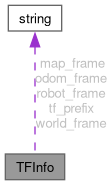
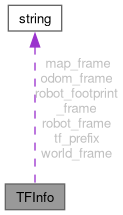
deploy: 782d0b30da52d99adb8120773ca8550337a495a8

Changed region(s): [[0.0536, 0.0, 0.9643, 0.7568], [0.0268, 0.7297, 0.5893, 1.0]]

diff --git a/SystemNode_8hpp_source.html b/SystemNode_8hpp_source.html
@@ -216,18 +216,18 @@ $(function(){ initResizable(false); });
 <div class="ttc" id="aclasseasynav_1_1NavState_html"><div class="ttname"><a href="classeasynav_1_1NavState.html">easynav::NavState</a></div><div class="ttdoc">A generic, type-safe, thread-safe blackboard to hold runtime state.</div><div class="ttdef"><b>Definition</b> NavState.hpp:87</div></div>
 <div class="ttc" id="aclasseasynav_1_1PlannerNode_html"><div class="ttname"><a href="classeasynav_1_1PlannerNode.html">easynav::PlannerNode</a></div><div class="ttdoc">ROS 2 lifecycle node that manages path planning in Easy Navigation.</div><div class="ttdef"><b>Definition</b> PlannerNode.hpp:43</div></div>
 <div class="ttc" id="aclasseasynav_1_1SensorsNode_html"><div class="ttname"><a href="classeasynav_1_1SensorsNode.html">easynav::SensorsNode</a></div><div class="ttdoc">ROS 2 lifecycle node that manages sensor fusion in Easy Navigation.</div><div class="ttdef"><b>Definition</b> SensorsNode.hpp:47</div></div>
-<div class="ttc" id="aclasseasynav_1_1SystemNode_html_a26f6915d7f6c74f8cf2e766e352ef4a1"><div class="ttname"><a href="classeasynav_1_1SystemNode.html#a26f6915d7f6c74f8cf2e766e352ef4a1">easynav::SystemNode::on_activate</a></div><div class="ttdeci">CallbackReturnT on_activate(const rclcpp_lifecycle::State &amp;state)</div><div class="ttdoc">Activate the node.</div><div class="ttdef"><b>Definition</b> SystemNode.cpp:155</div></div>
-<div class="ttc" id="aclasseasynav_1_1SystemNode_html_a316621c227e6363944e9d141fc227697"><div class="ttname"><a href="classeasynav_1_1SystemNode.html#a316621c227e6363944e9d141fc227697">easynav::SystemNode::on_configure</a></div><div class="ttdeci">CallbackReturnT on_configure(const rclcpp_lifecycle::State &amp;state)</div><div class="ttdoc">Configure the node.</div><div class="ttdef"><b>Definition</b> SystemNode.cpp:106</div></div>
-<div class="ttc" id="aclasseasynav_1_1SystemNode_html_a38b74771f6ab23805f990786e4d6f806"><div class="ttname"><a href="classeasynav_1_1SystemNode.html#a38b74771f6ab23805f990786e4d6f806">easynav::SystemNode::on_shutdown</a></div><div class="ttdeci">CallbackReturnT on_shutdown(const rclcpp_lifecycle::State &amp;state)</div><div class="ttdoc">Shutdown the node.</div><div class="ttdef"><b>Definition</b> SystemNode.cpp:204</div></div>
-<div class="ttc" id="aclasseasynav_1_1SystemNode_html_a514922ffaeaefa826c2d33243b19891f"><div class="ttname"><a href="classeasynav_1_1SystemNode.html#a514922ffaeaefa826c2d33243b19891f">easynav::SystemNode::get_system_nodes</a></div><div class="ttdeci">std::map&lt; std::string, SystemNodeInfo &gt; get_system_nodes()</div><div class="ttdoc">Get all system nodes managed by this coordinator.</div><div class="ttdef"><b>Definition</b> SystemNode.cpp:278</div></div>
-<div class="ttc" id="aclasseasynav_1_1SystemNode_html_a51a30cb3859b0fc27bd0aafaa778acb2"><div class="ttname"><a href="classeasynav_1_1SystemNode.html#a51a30cb3859b0fc27bd0aafaa778acb2">easynav::SystemNode::on_cleanup</a></div><div class="ttdeci">CallbackReturnT on_cleanup(const rclcpp_lifecycle::State &amp;state)</div><div class="ttdoc">Cleanup the node.</div><div class="ttdef"><b>Definition</b> SystemNode.cpp:197</div></div>
-<div class="ttc" id="aclasseasynav_1_1SystemNode_html_a8366fef9515c0b0cd47949fbfc018641"><div class="ttname"><a href="classeasynav_1_1SystemNode.html#a8366fef9515c0b0cd47949fbfc018641">easynav::SystemNode::get_real_time_cbg</a></div><div class="ttdeci">rclcpp::CallbackGroup::SharedPtr get_real_time_cbg()</div><div class="ttdoc">Get the real-time callback group.</div><div class="ttdef"><b>Definition</b> SystemNode.cpp:218</div></div>
-<div class="ttc" id="aclasseasynav_1_1SystemNode_html_a9b0782b915f4798a61ae8b9e56ebd5fb"><div class="ttname"><a href="classeasynav_1_1SystemNode.html#a9b0782b915f4798a61ae8b9e56ebd5fb">easynav::SystemNode::on_error</a></div><div class="ttdeci">CallbackReturnT on_error(const rclcpp_lifecycle::State &amp;state)</div><div class="ttdoc">Handle lifecycle transition error.</div><div class="ttdef"><b>Definition</b> SystemNode.cpp:211</div></div>
+<div class="ttc" id="aclasseasynav_1_1SystemNode_html_a26f6915d7f6c74f8cf2e766e352ef4a1"><div class="ttname"><a href="classeasynav_1_1SystemNode.html#a26f6915d7f6c74f8cf2e766e352ef4a1">easynav::SystemNode::on_activate</a></div><div class="ttdeci">CallbackReturnT on_activate(const rclcpp_lifecycle::State &amp;state)</div><div class="ttdoc">Activate the node.</div><div class="ttdef"><b>Definition</b> SystemNode.cpp:157</div></div>
+<div class="ttc" id="aclasseasynav_1_1SystemNode_html_a316621c227e6363944e9d141fc227697"><div class="ttname"><a href="classeasynav_1_1SystemNode.html#a316621c227e6363944e9d141fc227697">easynav::SystemNode::on_configure</a></div><div class="ttdeci">CallbackReturnT on_configure(const rclcpp_lifecycle::State &amp;state)</div><div class="ttdoc">Configure the node.</div><div class="ttdef"><b>Definition</b> SystemNode.cpp:107</div></div>
+<div class="ttc" id="aclasseasynav_1_1SystemNode_html_a38b74771f6ab23805f990786e4d6f806"><div class="ttname"><a href="classeasynav_1_1SystemNode.html#a38b74771f6ab23805f990786e4d6f806">easynav::SystemNode::on_shutdown</a></div><div class="ttdeci">CallbackReturnT on_shutdown(const rclcpp_lifecycle::State &amp;state)</div><div class="ttdoc">Shutdown the node.</div><div class="ttdef"><b>Definition</b> SystemNode.cpp:206</div></div>
+<div class="ttc" id="aclasseasynav_1_1SystemNode_html_a514922ffaeaefa826c2d33243b19891f"><div class="ttname"><a href="classeasynav_1_1SystemNode.html#a514922ffaeaefa826c2d33243b19891f">easynav::SystemNode::get_system_nodes</a></div><div class="ttdeci">std::map&lt; std::string, SystemNodeInfo &gt; get_system_nodes()</div><div class="ttdoc">Get all system nodes managed by this coordinator.</div><div class="ttdef"><b>Definition</b> SystemNode.cpp:280</div></div>
+<div class="ttc" id="aclasseasynav_1_1SystemNode_html_a51a30cb3859b0fc27bd0aafaa778acb2"><div class="ttname"><a href="classeasynav_1_1SystemNode.html#a51a30cb3859b0fc27bd0aafaa778acb2">easynav::SystemNode::on_cleanup</a></div><div class="ttdeci">CallbackReturnT on_cleanup(const rclcpp_lifecycle::State &amp;state)</div><div class="ttdoc">Cleanup the node.</div><div class="ttdef"><b>Definition</b> SystemNode.cpp:199</div></div>
+<div class="ttc" id="aclasseasynav_1_1SystemNode_html_a8366fef9515c0b0cd47949fbfc018641"><div class="ttname"><a href="classeasynav_1_1SystemNode.html#a8366fef9515c0b0cd47949fbfc018641">easynav::SystemNode::get_real_time_cbg</a></div><div class="ttdeci">rclcpp::CallbackGroup::SharedPtr get_real_time_cbg()</div><div class="ttdoc">Get the real-time callback group.</div><div class="ttdef"><b>Definition</b> SystemNode.cpp:220</div></div>
+<div class="ttc" id="aclasseasynav_1_1SystemNode_html_a9b0782b915f4798a61ae8b9e56ebd5fb"><div class="ttname"><a href="classeasynav_1_1SystemNode.html#a9b0782b915f4798a61ae8b9e56ebd5fb">easynav::SystemNode::on_error</a></div><div class="ttdeci">CallbackReturnT on_error(const rclcpp_lifecycle::State &amp;state)</div><div class="ttdoc">Handle lifecycle transition error.</div><div class="ttdef"><b>Definition</b> SystemNode.cpp:213</div></div>
 <div class="ttc" id="aclasseasynav_1_1SystemNode_html_abff1721399712e8fc6091a43b83d95aa"><div class="ttname"><a href="classeasynav_1_1SystemNode.html#abff1721399712e8fc6091a43b83d95aa">easynav::SystemNode::SystemNode</a></div><div class="ttdeci">SystemNode(const rclcpp::NodeOptions &amp;options=rclcpp::NodeOptions())</div><div class="ttdoc">Constructor.</div><div class="ttdef"><b>Definition</b> SystemNode.cpp:42</div></div>
-<div class="ttc" id="aclasseasynav_1_1SystemNode_html_acca79767d43dedc09e182e9125a847f3"><div class="ttname"><a href="classeasynav_1_1SystemNode.html#acca79767d43dedc09e182e9125a847f3">easynav::SystemNode::system_cycle</a></div><div class="ttdeci">void system_cycle()</div><div class="ttdoc">Non-real-time system cycle.</div><div class="ttdef"><b>Definition</b> SystemNode.cpp:254</div></div>
-<div class="ttc" id="aclasseasynav_1_1SystemNode_html_acd948c2ed9cfe6512e5b610caaa25961"><div class="ttname"><a href="classeasynav_1_1SystemNode.html#acd948c2ed9cfe6512e5b610caaa25961">easynav::SystemNode::system_cycle_rt</a></div><div class="ttdeci">void system_cycle_rt()</div><div class="ttdoc">Real-time system cycle.</div><div class="ttdef"><b>Definition</b> SystemNode.cpp:224</div></div>
+<div class="ttc" id="aclasseasynav_1_1SystemNode_html_acca79767d43dedc09e182e9125a847f3"><div class="ttname"><a href="classeasynav_1_1SystemNode.html#acca79767d43dedc09e182e9125a847f3">easynav::SystemNode::system_cycle</a></div><div class="ttdeci">void system_cycle()</div><div class="ttdoc">Non-real-time system cycle.</div><div class="ttdef"><b>Definition</b> SystemNode.cpp:256</div></div>
+<div class="ttc" id="aclasseasynav_1_1SystemNode_html_acd948c2ed9cfe6512e5b610caaa25961"><div class="ttname"><a href="classeasynav_1_1SystemNode.html#acd948c2ed9cfe6512e5b610caaa25961">easynav::SystemNode::system_cycle_rt</a></div><div class="ttdeci">void system_cycle_rt()</div><div class="ttdoc">Real-time system cycle.</div><div class="ttdef"><b>Definition</b> SystemNode.cpp:226</div></div>
 <div class="ttc" id="aclasseasynav_1_1SystemNode_html_ad09d90f1fe35c9e2f2fd7fc1902312f4"><div class="ttname"><a href="classeasynav_1_1SystemNode.html#ad09d90f1fe35c9e2f2fd7fc1902312f4">easynav::SystemNode::CallbackReturnT</a></div><div class="ttdeci">rclcpp_lifecycle::node_interfaces::LifecycleNodeInterface::CallbackReturn CallbackReturnT</div><div class="ttdef"><b>Definition</b> SystemNode.hpp:66</div></div>
-<div class="ttc" id="aclasseasynav_1_1SystemNode_html_afc8a8fa2ed2c7efe041cde46ce4c3c9b"><div class="ttname"><a href="classeasynav_1_1SystemNode.html#afc8a8fa2ed2c7efe041cde46ce4c3c9b">easynav::SystemNode::on_deactivate</a></div><div class="ttdeci">CallbackReturnT on_deactivate(const rclcpp_lifecycle::State &amp;state)</div><div class="ttdoc">Deactivate the node.</div><div class="ttdef"><b>Definition</b> SystemNode.cpp:176</div></div>
+<div class="ttc" id="aclasseasynav_1_1SystemNode_html_afc8a8fa2ed2c7efe041cde46ce4c3c9b"><div class="ttname"><a href="classeasynav_1_1SystemNode.html#afc8a8fa2ed2c7efe041cde46ce4c3c9b">easynav::SystemNode::on_deactivate</a></div><div class="ttdeci">CallbackReturnT on_deactivate(const rclcpp_lifecycle::State &amp;state)</div><div class="ttdoc">Deactivate the node.</div><div class="ttdef"><b>Definition</b> SystemNode.cpp:178</div></div>
 <div class="ttc" id="anamespaceeasynav_html"><div class="ttname"><a href="namespaceeasynav.html">easynav</a></div><div class="ttdef"><b>Definition</b> CircularBuffer.hpp:28</div></div>
 <div class="ttc" id="anamespacestd_html"><div class="ttname"><a href="namespacestd.html">std</a></div><div class="ttdef"><b>Definition</b> PointPerception.hpp:54</div></div>
 <div class="ttc" id="astructeasynav_1_1SystemNodeInfo_html"><div class="ttname"><a href="structeasynav_1_1SystemNodeInfo.html">easynav::SystemNodeInfo</a></div><div class="ttdoc">Structure holding runtime information for a subnode.</div><div class="ttdef"><b>Definition</b> SystemNode.hpp:50</div></div>

diff --git a/SensorsNode_8hpp_source.html b/SensorsNode_8hpp_source.html
@@ -174,31 +174,29 @@ $(function(){ initResizable(false); });
 <div class="line"><a id="l00144" name="l00144"></a><span class="lineno">  144</span></div>
 <div class="line"><a id="l00146" name="l00146"></a><span class="lineno">  146</span>  <span class="keywordtype">double</span> forget_time_;</div>
 <div class="line"><a id="l00147" name="l00147"></a><span class="lineno">  147</span></div>
-<div class="line"><a id="l00149" name="l00149"></a><span class="lineno">  149</span>  <a class="code hl_namespace" href="namespacestd.html">std</a>::<span class="keywordtype">string</span> robot_frame_ {<span class="stringliteral">&quot;base_link&quot;</span>};</div>
+<div class="line"><a id="l00149" name="l00149"></a><span class="lineno">  149</span>  <a class="code hl_namespace" href="namespacestd.html">std</a>::<span class="keywordtype">string</span> tf_prefix_;</div>
 <div class="line"><a id="l00150" name="l00150"></a><span class="lineno">  150</span></div>
-<div class="line"><a id="l00152" name="l00152"></a><span class="lineno">  152</span>  std::string tf_prefix_;</div>
-<div class="line"><a id="l00153" name="l00153"></a><span class="lineno">  153</span></div>
-<div class="line"><a id="l00155" name="l00155"></a><span class="lineno">  155</span>  std::shared_ptr&lt;NavState&gt; nav_state_;</div>
-<div class="line"><a id="l00156" name="l00156"></a><span class="lineno">  156</span> </div>
-<div class="line"><a id="l00157" name="l00157"></a><span class="lineno">  157</span>  std::map&lt;std::string, std::vector&lt;PerceptionPtr&gt;&gt; perceptions_;</div>
-<div class="line"><a id="l00158" name="l00158"></a><span class="lineno">  158</span>  std::map&lt;std::string, std::shared_ptr&lt;PerceptionHandler&gt;&gt; handlers_;</div>
+<div class="line"><a id="l00152" name="l00152"></a><span class="lineno">  152</span>  <a class="code hl_namespace" href="namespacestd.html">std</a>::shared_ptr&lt;<a class="code hl_class" href="classeasynav_1_1NavState.html">NavState</a>&gt; nav_state_;</div>
+<div class="line"><a id="l00153" name="l00153"></a><span class="lineno">  153</span> </div>
+<div class="line"><a id="l00154" name="l00154"></a><span class="lineno">  154</span>  <a class="code hl_namespace" href="namespacestd.html">std</a>::map&lt;<a class="code hl_namespace" href="namespacestd.html">std</a>::<span class="keywordtype">string</span>, <a class="code hl_namespace" href="namespacestd.html">std</a>::vector&lt;<a class="code hl_struct" href="structeasynav_1_1PerceptionPtr.html">PerceptionPtr</a>&gt;&gt; perceptions_;</div>
+<div class="line"><a id="l00155" name="l00155"></a><span class="lineno">  155</span>  <a class="code hl_namespace" href="namespacestd.html">std</a>::map&lt;<a class="code hl_namespace" href="namespacestd.html">std</a>::<span class="keywordtype">string</span>, <a class="code hl_namespace" href="namespacestd.html">std</a>::shared_ptr&lt;<a class="code hl_class" href="classeasynav_1_1PerceptionHandler.html">PerceptionHandler</a>&gt;&gt; handlers_;</div>
+<div class="line"><a id="l00156" name="l00156"></a><span class="lineno">  156</span></div>
+<div class="line"><a id="l00158" name="l00158"></a><span class="lineno">  158</span>  <a class="code hl_namespace" href="namespacestd.html">std</a>::unordered_map&lt;<a class="code hl_namespace" href="namespacestd.html">std</a>::<span class="keywordtype">string</span>, <a class="code hl_typedef" href="classeasynav_1_1SensorsNode.html#ac9926ee4f197296b143e1588428defba">SensorsHandlerFn</a>&gt; group_to_handler_;</div>
 <div class="line"><a id="l00159" name="l00159"></a><span class="lineno">  159</span></div>
-<div class="line"><a id="l00161" name="l00161"></a><span class="lineno">  161</span>  std::unordered_map&lt;std::string, SensorsHandlerFn&gt; group_to_handler_;</div>
-<div class="line"><a id="l00162" name="l00162"></a><span class="lineno">  162</span></div>
-<div class="line"><a id="l00169" name="l00169"></a><span class="lineno">  169</span>  <span class="keywordtype">bool</span> set_by_group(</div>
-<div class="line"><a id="l00170" name="l00170"></a><span class="lineno">  170</span>    <span class="keyword">const</span> std::string &amp; group,</div>
-<div class="line"><a id="l00171" name="l00171"></a><span class="lineno">  171</span>    <span class="keyword">const</span> std::vector&lt;PerceptionPtr&gt; &amp; perceptions,</div>
-<div class="line"><a id="l00172" name="l00172"></a><span class="lineno">  172</span>    <a class="code hl_class" href="classeasynav_1_1NavState.html">::easynav::NavState</a> &amp; ns</div>
-<div class="line"><a id="l00173" name="l00173"></a><span class="lineno">  173</span>  );</div>
-<div class="line"><a id="l00174" name="l00174"></a><span class="lineno">  174</span></div>
-<div class="line"><a id="l00180" name="l00180"></a><span class="lineno">  180</span>  <span class="keyword">template</span>&lt;std::<span class="keywordtype">size_t</span> I = 0&gt;</div>
-<div class="line"><a id="l00181" name="l00181"></a><span class="lineno">  181</span>  <span class="keywordtype">void</span> populate_group_to_handler_map();</div>
-<div class="line"><a id="l00182" name="l00182"></a><span class="lineno">  182</span>};</div>
+<div class="line"><a id="l00166" name="l00166"></a><span class="lineno">  166</span>  <span class="keywordtype">bool</span> set_by_group(</div>
+<div class="line"><a id="l00167" name="l00167"></a><span class="lineno">  167</span>    const <a class="code hl_namespace" href="namespacestd.html">std</a>::<span class="keywordtype">string</span> &amp; group,</div>
+<div class="line"><a id="l00168" name="l00168"></a><span class="lineno">  168</span>    const <a class="code hl_namespace" href="namespacestd.html">std</a>::vector&lt;<a class="code hl_struct" href="structeasynav_1_1PerceptionPtr.html">PerceptionPtr</a>&gt; &amp; perceptions,</div>
+<div class="line"><a id="l00169" name="l00169"></a><span class="lineno">  169</span>    ::<a class="code hl_namespace" href="namespaceeasynav.html">easynav</a>::<a class="code hl_class" href="classeasynav_1_1NavState.html">NavState</a> &amp; ns</div>
+<div class="line"><a id="l00170" name="l00170"></a><span class="lineno">  170</span>  );</div>
+<div class="line"><a id="l00171" name="l00171"></a><span class="lineno">  171</span></div>
+<div class="line"><a id="l00177" name="l00177"></a><span class="lineno">  177</span>  template&lt;<a class="code hl_namespace" href="namespacestd.html">std</a>::<span class="keywordtype">size_t</span> I = 0&gt;</div>
+<div class="line"><a id="l00178" name="l00178"></a><span class="lineno">  178</span>  <span class="keywordtype">void</span> populate_group_to_handler_map();</div>
+<div class="line"><a id="l00179" name="l00179"></a><span class="lineno">  179</span>};</div>
 </div>
-<div class="line"><a id="l00183" name="l00183"></a><span class="lineno">  183</span> </div>
-<div class="line"><a id="l00184" name="l00184"></a><span class="lineno">  184</span>}  <span class="comment">// namespace easynav</span></div>
-<div class="line"><a id="l00185" name="l00185"></a><span class="lineno">  185</span> </div>
-<div class="line"><a id="l00186" name="l00186"></a><span class="lineno">  186</span><span class="preprocessor">#endif  </span><span class="comment">// EASYNAV_SENSORS__SENSORNODE_HPP_</span></div>
+<div class="line"><a id="l00180" name="l00180"></a><span class="lineno">  180</span> </div>
+<div class="line"><a id="l00181" name="l00181"></a><span class="lineno">  181</span>}  <span class="comment">// namespace easynav</span></div>
+<div class="line"><a id="l00182" name="l00182"></a><span class="lineno">  182</span> </div>
+<div class="line"><a id="l00183" name="l00183"></a><span class="lineno">  183</span><span class="preprocessor">#endif  </span><span class="comment">// EASYNAV_SENSORS__SENSORNODE_HPP_</span></div>
 <div class="ttc" id="aNavState_8hpp_html"><div class="ttname"><a href="NavState_8hpp.html">NavState.hpp</a></div><div class="ttdoc">A blackboard-like structure to hold the current state of the navigation system.</div></div>
 <div class="ttc" id="aPerceptions_8hpp_html"><div class="ttname"><a href="Perceptions_8hpp.html">Perceptions.hpp</a></div><div class="ttdoc">Defines data structures and utilities for representing and processing sensor perceptions.</div></div>
 <div class="ttc" id="aclasseasynav_1_1NavState_html"><div class="ttname"><a href="classeasynav_1_1NavState.html">easynav::NavState</a></div><div class="ttdoc">A generic, type-safe, thread-safe blackboard to hold runtime state.</div><div class="ttdef"><b>Definition</b> NavState.hpp:87</div></div>

diff --git a/TFInfo_8hpp_source.html b/TFInfo_8hpp_source.html
@@ -132,17 +132,20 @@ $(function(){ initResizable(false); });
 <div class="line"><a id="l00042" name="l00042"></a><span class="lineno">   42</span></div>
 <div class="line"><a id="l00044" name="l00044"></a><span class="lineno"><a class="line" href="structeasynav_1_1TFInfo.html#a353f8a8b1f5f926d60a93b70c87e173f">   44</a></span>  std::string <a class="code hl_variable" href="structeasynav_1_1TFInfo.html#a353f8a8b1f5f926d60a93b70c87e173f">robot_frame</a> {<span class="stringliteral">&quot;base_link&quot;</span>};</div>
 <div class="line"><a id="l00045" name="l00045"></a><span class="lineno">   45</span></div>
-<div class="line"><a id="l00047" name="l00047"></a><span class="lineno"><a class="line" href="structeasynav_1_1TFInfo.html#a6503fcf2db179ad3a03e3ba9c51ba6d6">   47</a></span>  std::string <a class="code hl_variable" href="structeasynav_1_1TFInfo.html#a6503fcf2db179ad3a03e3ba9c51ba6d6">world_frame</a>{<span class="stringliteral">&quot;earth&quot;</span>};</div>
-<div class="line"><a id="l00048" name="l00048"></a><span class="lineno">   48</span>};</div>
+<div class="line"><a id="l00047" name="l00047"></a><span class="lineno"><a class="line" href="structeasynav_1_1TFInfo.html#a8dbd52299e41d67bf96df83528cb1eac">   47</a></span>  std::string <a class="code hl_variable" href="structeasynav_1_1TFInfo.html#a8dbd52299e41d67bf96df83528cb1eac">robot_footprint_frame</a> {<span class="stringliteral">&quot;base_footprint&quot;</span>};</div>
+<div class="line"><a id="l00048" name="l00048"></a><span class="lineno">   48</span></div>
+<div class="line"><a id="l00050" name="l00050"></a><span class="lineno"><a class="line" href="structeasynav_1_1TFInfo.html#a6503fcf2db179ad3a03e3ba9c51ba6d6">   50</a></span>  std::string <a class="code hl_variable" href="structeasynav_1_1TFInfo.html#a6503fcf2db179ad3a03e3ba9c51ba6d6">world_frame</a>{<span class="stringliteral">&quot;earth&quot;</span>};</div>
+<div class="line"><a id="l00051" name="l00051"></a><span class="lineno">   51</span>};</div>
 </div>
-<div class="line"><a id="l00049" name="l00049"></a><span class="lineno">   49</span> </div>
-<div class="line"><a id="l00050" name="l00050"></a><span class="lineno">   50</span>}  <span class="comment">// namespace easynav</span></div>
-<div class="line"><a id="l00051" name="l00051"></a><span class="lineno">   51</span> </div>
-<div class="line"><a id="l00052" name="l00052"></a><span class="lineno">   52</span><span class="preprocessor">#endif  </span><span class="comment">// EASYNAV_COMMON__TYPES__TFINFO_HPP_</span></div>
+<div class="line"><a id="l00052" name="l00052"></a><span class="lineno">   52</span> </div>
+<div class="line"><a id="l00053" name="l00053"></a><span class="lineno">   53</span>}  <span class="comment">// namespace easynav</span></div>
+<div class="line"><a id="l00054" name="l00054"></a><span class="lineno">   54</span> </div>
+<div class="line"><a id="l00055" name="l00055"></a><span class="lineno">   55</span><span class="preprocessor">#endif  </span><span class="comment">// EASYNAV_COMMON__TYPES__TFINFO_HPP_</span></div>
 <div class="ttc" id="anamespaceeasynav_html"><div class="ttname"><a href="namespaceeasynav.html">easynav</a></div><div class="ttdef"><b>Definition</b> CircularBuffer.hpp:28</div></div>
 <div class="ttc" id="astructeasynav_1_1TFInfo_html"><div class="ttname"><a href="structeasynav_1_1TFInfo.html">easynav::TFInfo</a></div><div class="ttdoc">Aggregated TF configuration used across EasyNav.</div><div class="ttdef"><b>Definition</b> TFInfo.hpp:30</div></div>
-<div class="ttc" id="astructeasynav_1_1TFInfo_html_a353f8a8b1f5f926d60a93b70c87e173f"><div class="ttname"><a href="structeasynav_1_1TFInfo.html#a353f8a8b1f5f926d60a93b70c87e173f">easynav::TFInfo::robot_frame</a></div><div class="ttdeci">std::string robot_frame</div><div class="ttdoc">Robot base frame (base_link/base_footprint equivalent).</div><div class="ttdef"><b>Definition</b> TFInfo.hpp:44</div></div>
-<div class="ttc" id="astructeasynav_1_1TFInfo_html_a6503fcf2db179ad3a03e3ba9c51ba6d6"><div class="ttname"><a href="structeasynav_1_1TFInfo.html#a6503fcf2db179ad3a03e3ba9c51ba6d6">easynav::TFInfo::world_frame</a></div><div class="ttdeci">std::string world_frame</div><div class="ttdoc">World frame used by global estimators (e.g. earth-fixed frame).</div><div class="ttdef"><b>Definition</b> TFInfo.hpp:47</div></div>
+<div class="ttc" id="astructeasynav_1_1TFInfo_html_a353f8a8b1f5f926d60a93b70c87e173f"><div class="ttname"><a href="structeasynav_1_1TFInfo.html#a353f8a8b1f5f926d60a93b70c87e173f">easynav::TFInfo::robot_frame</a></div><div class="ttdeci">std::string robot_frame</div><div class="ttdoc">Robot base frame (base_link equivalent).</div><div class="ttdef"><b>Definition</b> TFInfo.hpp:44</div></div>
+<div class="ttc" id="astructeasynav_1_1TFInfo_html_a6503fcf2db179ad3a03e3ba9c51ba6d6"><div class="ttname"><a href="structeasynav_1_1TFInfo.html#a6503fcf2db179ad3a03e3ba9c51ba6d6">easynav::TFInfo::world_frame</a></div><div class="ttdeci">std::string world_frame</div><div class="ttdoc">World frame used by global estimators (e.g. earth-fixed frame).</div><div class="ttdef"><b>Definition</b> TFInfo.hpp:50</div></div>
+<div class="ttc" id="astructeasynav_1_1TFInfo_html_a8dbd52299e41d67bf96df83528cb1eac"><div class="ttname"><a href="structeasynav_1_1TFInfo.html#a8dbd52299e41d67bf96df83528cb1eac">easynav::TFInfo::robot_footprint_frame</a></div><div class="ttdeci">std::string robot_footprint_frame</div><div class="ttdoc">Robot base frame (base_footprint equivalent).</div><div class="ttdef"><b>Definition</b> TFInfo.hpp:47</div></div>
 <div class="ttc" id="astructeasynav_1_1TFInfo_html_a934dcd62e92c1a8333b6d1745aa77f1b"><div class="ttname"><a href="structeasynav_1_1TFInfo.html#a934dcd62e92c1a8333b6d1745aa77f1b">easynav::TFInfo::map_frame</a></div><div class="ttdeci">std::string map_frame</div><div class="ttdoc">Global map frame.</div><div class="ttdef"><b>Definition</b> TFInfo.hpp:38</div></div>
 <div class="ttc" id="astructeasynav_1_1TFInfo_html_ad9c446687c77da1009753a37c278d82c"><div class="ttname"><a href="structeasynav_1_1TFInfo.html#ad9c446687c77da1009753a37c278d82c">easynav::TFInfo::tf_prefix</a></div><div class="ttdeci">std::string tf_prefix</div><div class="ttdoc">Optional TF prefix applied to frame names.</div><div class="ttdef"><b>Definition</b> TFInfo.hpp:35</div></div>
 <div class="ttc" id="astructeasynav_1_1TFInfo_html_ae4692f4f0f9d4fea125ce56cadb80f8a"><div class="ttname"><a href="structeasynav_1_1TFInfo.html#ae4692f4f0f9d4fea125ce56cadb80f8a">easynav::TFInfo::odom_frame</a></div><div class="ttdeci">std::string odom_frame</div><div class="ttdoc">Odometry frame.</div><div class="ttdef"><b>Definition</b> TFInfo.hpp:41</div></div>

diff --git a/RTTFBuffer_8hpp_source.html b/RTTFBuffer_8hpp_source.html
@@ -159,22 +159,23 @@ $(function(){ initResizable(false); });
 <div class="line"><a id="l00063" name="l00063"></a><span class="lineno">   63</span>      tf_info_.map_frame = tf_info_.tf_prefix + <span class="stringliteral">&quot;/&quot;</span> + tf_info_.map_frame;</div>
 <div class="line"><a id="l00064" name="l00064"></a><span class="lineno">   64</span>      tf_info_.odom_frame = tf_info_.tf_prefix + <span class="stringliteral">&quot;/&quot;</span> + tf_info_.odom_frame;</div>
 <div class="line"><a id="l00065" name="l00065"></a><span class="lineno">   65</span>      tf_info_.robot_frame = tf_info_.tf_prefix + <span class="stringliteral">&quot;/&quot;</span> + tf_info_.robot_frame;</div>
-<div class="line"><a id="l00066" name="l00066"></a><span class="lineno">   66</span>      tf_info_.world_frame = tf_info_.tf_prefix + <span class="stringliteral">&quot;/&quot;</span> + tf_info_.world_frame;</div>
-<div class="line"><a id="l00067" name="l00067"></a><span class="lineno">   67</span>    }</div>
-<div class="line"><a id="l00068" name="l00068"></a><span class="lineno">   68</span>  }</div>
+<div class="line"><a id="l00066" name="l00066"></a><span class="lineno">   66</span>      tf_info_.robot_footprint_frame = tf_info_.tf_prefix + <span class="stringliteral">&quot;/&quot;</span> + tf_info_.robot_footprint_frame;</div>
+<div class="line"><a id="l00067" name="l00067"></a><span class="lineno">   67</span>      tf_info_.world_frame = tf_info_.tf_prefix + <span class="stringliteral">&quot;/&quot;</span> + tf_info_.world_frame;</div>
+<div class="line"><a id="l00068" name="l00068"></a><span class="lineno">   68</span>    }</div>
+<div class="line"><a id="l00069" name="l00069"></a><span class="lineno">   69</span>  }</div>
 </div>
-<div class="line"><a id="l00069" name="l00069"></a><span class="lineno">   69</span> </div>
-<div class="line"><a id="l00070" name="l00070"></a><span class="lineno">   70</span><span class="keyword">private</span>:</div>
-<div class="line"><a id="l00071" name="l00071"></a><span class="lineno">   71</span>  <a class="code hl_struct" href="structeasynav_1_1TFInfo.html">TFInfo</a> tf_info_;</div>
-<div class="line"><a id="l00072" name="l00072"></a><span class="lineno">   72</span> </div>
-<div class="line"><a id="l00073" name="l00073"></a><span class="lineno">   73</span>  <a class="code hl_define" href="Singleton_8hpp.html#af0372c6f11888fb8af91d3a0c10a1899">SINGLETON_DEFINITIONS</a>(<a class="code hl_class" href="classeasynav_1_1RTTFBuffer.html">RTTFBuffer</a>)</div>
-<div class="line"><a id="l00074" name="l00074"></a><span class="lineno">   74</span>};</div>
+<div class="line"><a id="l00070" name="l00070"></a><span class="lineno">   70</span> </div>
+<div class="line"><a id="l00071" name="l00071"></a><span class="lineno">   71</span><span class="keyword">private</span>:</div>
+<div class="line"><a id="l00072" name="l00072"></a><span class="lineno">   72</span>  <a class="code hl_struct" href="structeasynav_1_1TFInfo.html">TFInfo</a> tf_info_;</div>
+<div class="line"><a id="l00073" name="l00073"></a><span class="lineno">   73</span> </div>
+<div class="line"><a id="l00074" name="l00074"></a><span class="lineno">   74</span>  <a class="code hl_define" href="Singleton_8hpp.html#af0372c6f11888fb8af91d3a0c10a1899">SINGLETON_DEFINITIONS</a>(<a class="code hl_class" href="classeasynav_1_1RTTFBuffer.html">RTTFBuffer</a>)</div>
+<div class="line"><a id="l00075" name="l00075"></a><span class="lineno">   75</span>};</div>
 </div>
-<div class="line"><a id="l00075" name="l00075"></a><span class="lineno">   75</span> </div>
-<div class="line"><a id="l00076" name="l00076"></a><span class="lineno">   76</span>}  <span class="comment">// namespace easynav</span></div>
-<div class="line"><a id="l00077" name="l00077"></a><span class="lineno">   77</span> </div>
+<div class="line"><a id="l00076" name="l00076"></a><span class="lineno">   76</span> </div>
+<div class="line"><a id="l00077" name="l00077"></a><span class="lineno">   77</span>}  <span class="comment">// namespace easynav</span></div>
 <div class="line"><a id="l00078" name="l00078"></a><span class="lineno">   78</span> </div>
-<div class="line"><a id="l00079" name="l00079"></a><span class="lineno">   79</span><span class="preprocessor">#endif  </span><span class="comment">// EASYNAV_COMMON_TYPES__RTTFBUFFER_HPP_</span></div>
+<div class="line"><a id="l00079" name="l00079"></a><span class="lineno">   79</span> </div>
+<div class="line"><a id="l00080" name="l00080"></a><span class="lineno">   80</span><span class="preprocessor">#endif  </span><span class="comment">// EASYNAV_COMMON_TYPES__RTTFBUFFER_HPP_</span></div>
 <div class="ttc" id="aSingleton_8hpp_html"><div class="ttname"><a href="Singleton_8hpp.html">Singleton.hpp</a></div></div>
 <div class="ttc" id="aSingleton_8hpp_html_af0372c6f11888fb8af91d3a0c10a1899"><div class="ttname"><a href="Singleton_8hpp.html#af0372c6f11888fb8af91d3a0c10a1899">SINGLETON_DEFINITIONS</a></div><div class="ttdeci">#define SINGLETON_DEFINITIONS(ClassName)</div><div class="ttdef"><b>Definition</b> Singleton.hpp:75</div></div>
 <div class="ttc" id="aTFInfo_8hpp_html"><div class="ttname"><a href="TFInfo_8hpp.html">TFInfo.hpp</a></div></div>

diff --git a/structeasynav_1_1TFInfo.html b/structeasynav_1_1TFInfo.html
@@ -104,9 +104,9 @@ Collaboration diagram for TFInfo:</div>
 <div class="dyncontent">
 <div class="center"><img src="structeasynav_1_1TFInfo__coll__graph.png" border="0" usemap="#aTFInfo_coll__map" alt="Collaboration graph"/></div>
 <map name="aTFInfo_coll__map" id="aTFInfo_coll__map">
-<area shape="rect" title="Aggregated TF configuration used across EasyNav." alt="" coords="5,154,65,180"/>
+<area shape="rect" title="Aggregated TF configuration used across EasyNav." alt="" coords="5,184,65,210"/>
 <area shape="rect" title=" " alt="" coords="8,5,62,31"/>
-<area shape="poly" title=" " alt="" coords="38,46,38,153,32,153,32,46"/>
+<area shape="poly" title=" " alt="" coords="38,47,38,184,32,184,32,47"/>
 </map>
 <center><span class="legend">[<a href="graph_legend.html">legend</a>]</span></center></div>
 <table class="memberdecls">
@@ -118,8 +118,11 @@ Public Attributes</h2></td></tr>
 <tr class="memitem:ae4692f4f0f9d4fea125ce56cadb80f8a" id="r_ae4692f4f0f9d4fea125ce56cadb80f8a"><td class="memItemLeft" align="right" valign="top">std::string&#160;</td><td class="memItemRight" valign="bottom"><a class="el" href="#ae4692f4f0f9d4fea125ce56cadb80f8a">odom_frame</a> {&quot;odom&quot;}</td></tr>
 <tr class="memdesc:ae4692f4f0f9d4fea125ce56cadb80f8a"><td class="mdescLeft">&#160;</td><td class="mdescRight">Odometry frame.  <br /></td></tr>
 <tr class="separator:ae4692f4f0f9d4fea125ce56cadb80f8a"><td class="memSeparator" colspan="2">&#160;</td></tr>
+<tr class="memitem:a8dbd52299e41d67bf96df83528cb1eac" id="r_a8dbd52299e41d67bf96df83528cb1eac"><td class="memItemLeft" align="right" valign="top">std::string&#160;</td><td class="memItemRight" valign="bottom"><a class="el" href="#a8dbd52299e41d67bf96df83528cb1eac">robot_footprint_frame</a> {&quot;base_footprint&quot;}</td></tr>
+<tr class="memdesc:a8dbd52299e41d67bf96df83528cb1eac"><td class="mdescLeft">&#160;</td><td class="mdescRight">Robot base frame (base_footprint equivalent).  <br /></td></tr>
+<tr class="separator:a8dbd52299e41d67bf96df83528cb1eac"><td class="memSeparator" colspan="2">&#160;</td></tr>
 <tr class="memitem:a353f8a8b1f5f926d60a93b70c87e173f" id="r_a353f8a8b1f5f926d60a93b70c87e173f"><td class="memItemLeft" align="right" valign="top">std::string&#160;</td><td class="memItemRight" valign="bottom"><a class="el" href="#a353f8a8b1f5f926d60a93b70c87e173f">robot_frame</a> {&quot;base_link&quot;}</td></tr>
-<tr class="memdesc:a353f8a8b1f5f926d60a93b70c87e173f"><td class="mdescLeft">&#160;</td><td class="mdescRight">Robot base frame (base_link/base_footprint equivalent).  <br /></td></tr>
+<tr class="memdesc:a353f8a8b1f5f926d60a93b70c87e173f"><td class="mdescLeft">&#160;</td><td class="mdescRight">Robot base frame (base_link equivalent).  <br /></td></tr>
 <tr class="separator:a353f8a8b1f5f926d60a93b70c87e173f"><td class="memSeparator" colspan="2">&#160;</td></tr>
 <tr class="memitem:ad9c446687c77da1009753a37c278d82c" id="r_ad9c446687c77da1009753a37c278d82c"><td class="memItemLeft" align="right" valign="top">std::string&#160;</td><td class="memItemRight" valign="bottom"><a class="el" href="#ad9c446687c77da1009753a37c278d82c">tf_prefix</a> {&quot;&quot;}</td></tr>
 <tr class="memdesc:ad9c446687c77da1009753a37c278d82c"><td class="mdescLeft">&#160;</td><td class="mdescRight">Optional TF prefix applied to frame names.  <br /></td></tr>
@@ -163,6 +166,22 @@ Public Attributes</h2></td></tr>
 
 </div>
 </div>
+<a id="a8dbd52299e41d67bf96df83528cb1eac" name="a8dbd52299e41d67bf96df83528cb1eac"></a>
+<h2 class="memtitle"><span class="permalink"><a href="#a8dbd52299e41d67bf96df83528cb1eac">&#9670;&#160;</a></span>robot_footprint_frame</h2>
+
+<div class="memitem">
+<div class="memproto">
+      <table class="memname">
+        <tr>
+          <td class="memname">std::string robot_footprint_frame {&quot;base_footprint&quot;}</td>
+        </tr>
+      </table>
+</div><div class="memdoc">
+
+<p>Robot base frame (base_footprint equivalent). </p>
+
+</div>
+</div>
 <a id="a353f8a8b1f5f926d60a93b70c87e173f" name="a353f8a8b1f5f926d60a93b70c87e173f"></a>
 <h2 class="memtitle"><span class="permalink"><a href="#a353f8a8b1f5f926d60a93b70c87e173f">&#9670;&#160;</a></span>robot_frame</h2>
 
@@ -175,7 +194,7 @@ Public Attributes</h2></td></tr>
       </table>
 </div><div class="memdoc">
 
-<p>Robot base frame (base_link/base_footprint equivalent). </p>
+<p>Robot base frame (base_link equivalent). </p>
 
 </div>
 </div>

diff --git a/structeasynav_1_1TFInfo-members.html b/structeasynav_1_1TFInfo-members.html
@@ -96,9 +96,10 @@ $(function(){ initResizable(false); });
 <table class="directory">
   <tr class="even"><td class="entry"><a class="el" href="structeasynav_1_1TFInfo.html#a934dcd62e92c1a8333b6d1745aa77f1b">map_frame</a></td><td class="entry"><a class="el" href="structeasynav_1_1TFInfo.html">TFInfo</a></td><td class="entry"></td></tr>
   <tr class="odd"><td class="entry"><a class="el" href="structeasynav_1_1TFInfo.html#ae4692f4f0f9d4fea125ce56cadb80f8a">odom_frame</a></td><td class="entry"><a class="el" href="structeasynav_1_1TFInfo.html">TFInfo</a></td><td class="entry"></td></tr>
-  <tr class="even"><td class="entry"><a class="el" href="structeasynav_1_1TFInfo.html#a353f8a8b1f5f926d60a93b70c87e173f">robot_frame</a></td><td class="entry"><a class="el" href="structeasynav_1_1TFInfo.html">TFInfo</a></td><td class="entry"></td></tr>
-  <tr class="odd"><td class="entry"><a class="el" href="structeasynav_1_1TFInfo.html#ad9c446687c77da1009753a37c278d82c">tf_prefix</a></td><td class="entry"><a class="el" href="structeasynav_1_1TFInfo.html">TFInfo</a></td><td class="entry"></td></tr>
-  <tr class="even"><td class="entry"><a class="el" href="structeasynav_1_1TFInfo.html#a6503fcf2db179ad3a03e3ba9c51ba6d6">world_frame</a></td><td class="entry"><a class="el" href="structeasynav_1_1TFInfo.html">TFInfo</a></td><td class="entry"></td></tr>
+  <tr class="even"><td class="entry"><a class="el" href="structeasynav_1_1TFInfo.html#a8dbd52299e41d67bf96df83528cb1eac">robot_footprint_frame</a></td><td class="entry"><a class="el" href="structeasynav_1_1TFInfo.html">TFInfo</a></td><td class="entry"></td></tr>
+  <tr class="odd"><td class="entry"><a class="el" href="structeasynav_1_1TFInfo.html#a353f8a8b1f5f926d60a93b70c87e173f">robot_frame</a></td><td class="entry"><a class="el" href="structeasynav_1_1TFInfo.html">TFInfo</a></td><td class="entry"></td></tr>
+  <tr class="even"><td class="entry"><a class="el" href="structeasynav_1_1TFInfo.html#ad9c446687c77da1009753a37c278d82c">tf_prefix</a></td><td class="entry"><a class="el" href="structeasynav_1_1TFInfo.html">TFInfo</a></td><td class="entry"></td></tr>
+  <tr class="odd"><td class="entry"><a class="el" href="structeasynav_1_1TFInfo.html#a6503fcf2db179ad3a03e3ba9c51ba6d6">world_frame</a></td><td class="entry"><a class="el" href="structeasynav_1_1TFInfo.html">TFInfo</a></td><td class="entry"></td></tr>
 </table></div><!-- contents -->
 <!-- start footer part -->
 <hr class="footer"/><address class="footer"><small>

diff --git a/search/all_e.js b/search/all_e.js
@@ -10,7 +10,8 @@ var searchData=
   ['repositories_7',['📦 Main Repositories',['../index.html#autotoc_md1',1,'']]],
   ['reset_8',['reset',['../classeasynav_1_1GoalManagerClient.html#ad20897c5c8bd47f5d4005989bead0e55',1,'easynav::GoalManagerClient']]],
   ['resize_9',['resize',['../classeasynav_1_1PointPerception.html#abec4b6a1f866fa00c123e151c664dab2',1,'easynav::PointPerception']]],
-  ['robot_5fframe_10',['robot_frame',['../structeasynav_1_1TFInfo.html#a353f8a8b1f5f926d60a93b70c87e173f',1,'easynav::TFInfo']]],
-  ['rttfbuffer_11',['RTTFBuffer',['../classeasynav_1_1RTTFBuffer.html',1,'RTTFBuffer'],['../classeasynav_1_1RTTFBuffer.html#afaceb31b09807d360fb2b8e91ec6a929',1,'easynav::RTTFBuffer::RTTFBuffer(const rclcpp::Clock::SharedPtr &amp;clock)'],['../classeasynav_1_1RTTFBuffer.html#aa7ef3a0d2cb5503016dd47f8877364fc',1,'easynav::RTTFBuffer::RTTFBuffer()']]],
-  ['rttfbuffer_2ehpp_12',['RTTFBuffer.hpp',['../RTTFBuffer_8hpp.html',1,'']]]
+  ['robot_5ffootprint_5fframe_10',['robot_footprint_frame',['../structeasynav_1_1TFInfo.html#a8dbd52299e41d67bf96df83528cb1eac',1,'easynav::TFInfo']]],
+  ['robot_5fframe_11',['robot_frame',['../structeasynav_1_1TFInfo.html#a353f8a8b1f5f926d60a93b70c87e173f',1,'easynav::TFInfo']]],
+  ['rttfbuffer_12',['RTTFBuffer',['../classeasynav_1_1RTTFBuffer.html',1,'RTTFBuffer'],['../classeasynav_1_1RTTFBuffer.html#afaceb31b09807d360fb2b8e91ec6a929',1,'easynav::RTTFBuffer::RTTFBuffer(const rclcpp::Clock::SharedPtr &amp;clock)'],['../classeasynav_1_1RTTFBuffer.html#aa7ef3a0d2cb5503016dd47f8877364fc',1,'easynav::RTTFBuffer::RTTFBuffer()']]],
+  ['rttfbuffer_2ehpp_13',['RTTFBuffer.hpp',['../RTTFBuffer_8hpp.html',1,'']]]
 ];

diff --git a/functions_r.html b/functions_r.html
@@ -95,6 +95,7 @@ $(function(){ initResizable(false); });
 <li>removeInstance()&#160;:&#160;<a class="el" href="classeasynav_1_1Singleton.html#a932098eab97158326f0fe7a8283b319f">Singleton&lt; C &gt;</a></li>
 <li>reset()&#160;:&#160;<a class="el" href="classeasynav_1_1GoalManagerClient.html#ad20897c5c8bd47f5d4005989bead0e55">GoalManagerClient</a></li>
 <li>resize()&#160;:&#160;<a class="el" href="classeasynav_1_1PointPerception.html#abec4b6a1f866fa00c123e151c664dab2">PointPerception</a></li>
+<li>robot_footprint_frame&#160;:&#160;<a class="el" href="structeasynav_1_1TFInfo.html#a8dbd52299e41d67bf96df83528cb1eac">TFInfo</a></li>
 <li>robot_frame&#160;:&#160;<a class="el" href="structeasynav_1_1TFInfo.html#a353f8a8b1f5f926d60a93b70c87e173f">TFInfo</a></li>
 <li>RTTFBuffer()&#160;:&#160;<a class="el" href="classeasynav_1_1RTTFBuffer.html#afaceb31b09807d360fb2b8e91ec6a929">RTTFBuffer</a></li>
 </ul>

diff --git a/search/variables_a.js b/search/variables_a.js
@@ -1,5 +1,6 @@
 var searchData=
 [
   ['realtime_5fcbg_0',['realtime_cbg',['../structeasynav_1_1SystemNodeInfo.html#a5aab17347096798b46e3925e6d931252',1,'easynav::SystemNodeInfo']]],
-  ['robot_5fframe_1',['robot_frame',['../structeasynav_1_1TFInfo.html#a353f8a8b1f5f926d60a93b70c87e173f',1,'easynav::TFInfo']]]
+  ['robot_5ffootprint_5fframe_1',['robot_footprint_frame',['../structeasynav_1_1TFInfo.html#a8dbd52299e41d67bf96df83528cb1eac',1,'easynav::TFInfo']]],
+  ['robot_5fframe_2',['robot_frame',['../structeasynav_1_1TFInfo.html#a353f8a8b1f5f926d60a93b70c87e173f',1,'easynav::TFInfo']]]
 ];

diff --git a/functions_vars.html b/functions_vars.html
@@ -147,6 +147,7 @@ $(function(){ initResizable(false); });
 
 <h3><a id="index_r" name="index_r"></a>- r -</h3><ul>
 <li>realtime_cbg&#160;:&#160;<a class="el" href="structeasynav_1_1SystemNodeInfo.html#a5aab17347096798b46e3925e6d931252">SystemNodeInfo</a></li>
+<li>robot_footprint_frame&#160;:&#160;<a class="el" href="structeasynav_1_1TFInfo.html#a8dbd52299e41d67bf96df83528cb1eac">TFInfo</a></li>
 <li>robot_frame&#160;:&#160;<a class="el" href="structeasynav_1_1TFInfo.html#a353f8a8b1f5f926d60a93b70c87e173f">TFInfo</a></li>
 </ul>
 

diff --git a/doxygen_crawl.html b/doxygen_crawl.html
@@ -690,6 +690,7 @@
 <a href="structeasynav_1_1TFInfo.html"/>
 <a href="structeasynav_1_1TFInfo.html#a353f8a8b1f5f926d60a93b70c87e173f"/>
 <a href="structeasynav_1_1TFInfo.html#a6503fcf2db179ad3a03e3ba9c51ba6d6"/>
+<a href="structeasynav_1_1TFInfo.html#a8dbd52299e41d67bf96df83528cb1eac"/>
 <a href="structeasynav_1_1TFInfo.html#a934dcd62e92c1a8333b6d1745aa77f1b"/>
 <a href="structeasynav_1_1TFInfo.html#ad9c446687c77da1009753a37c278d82c"/>
 <a href="structeasynav_1_1TFInfo.html#ae4692f4f0f9d4fea125ce56cadb80f8a"/>
